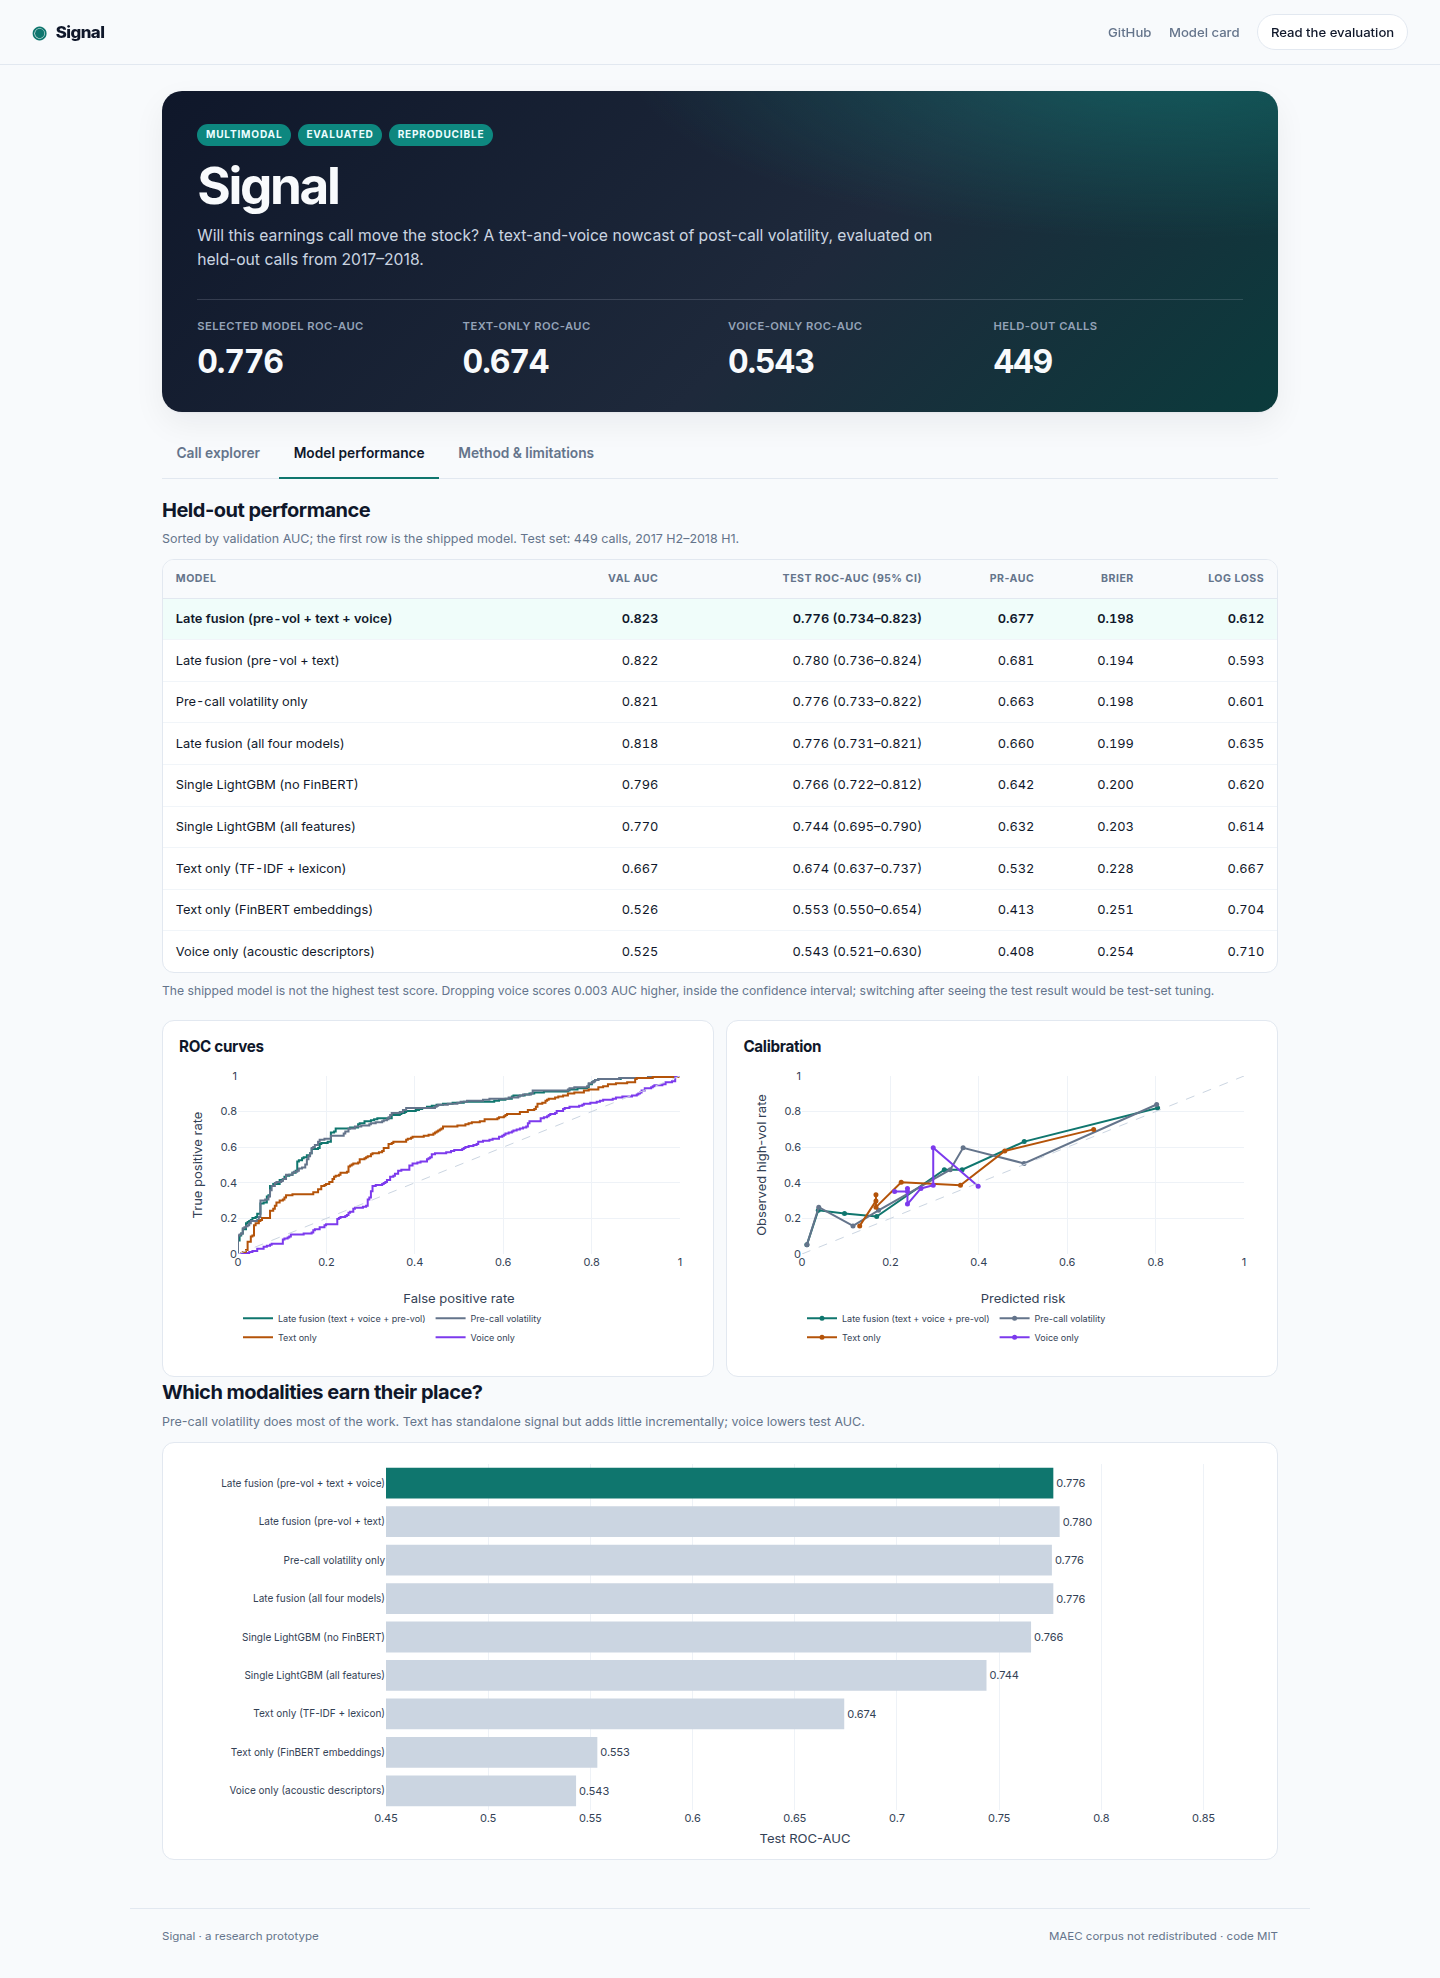
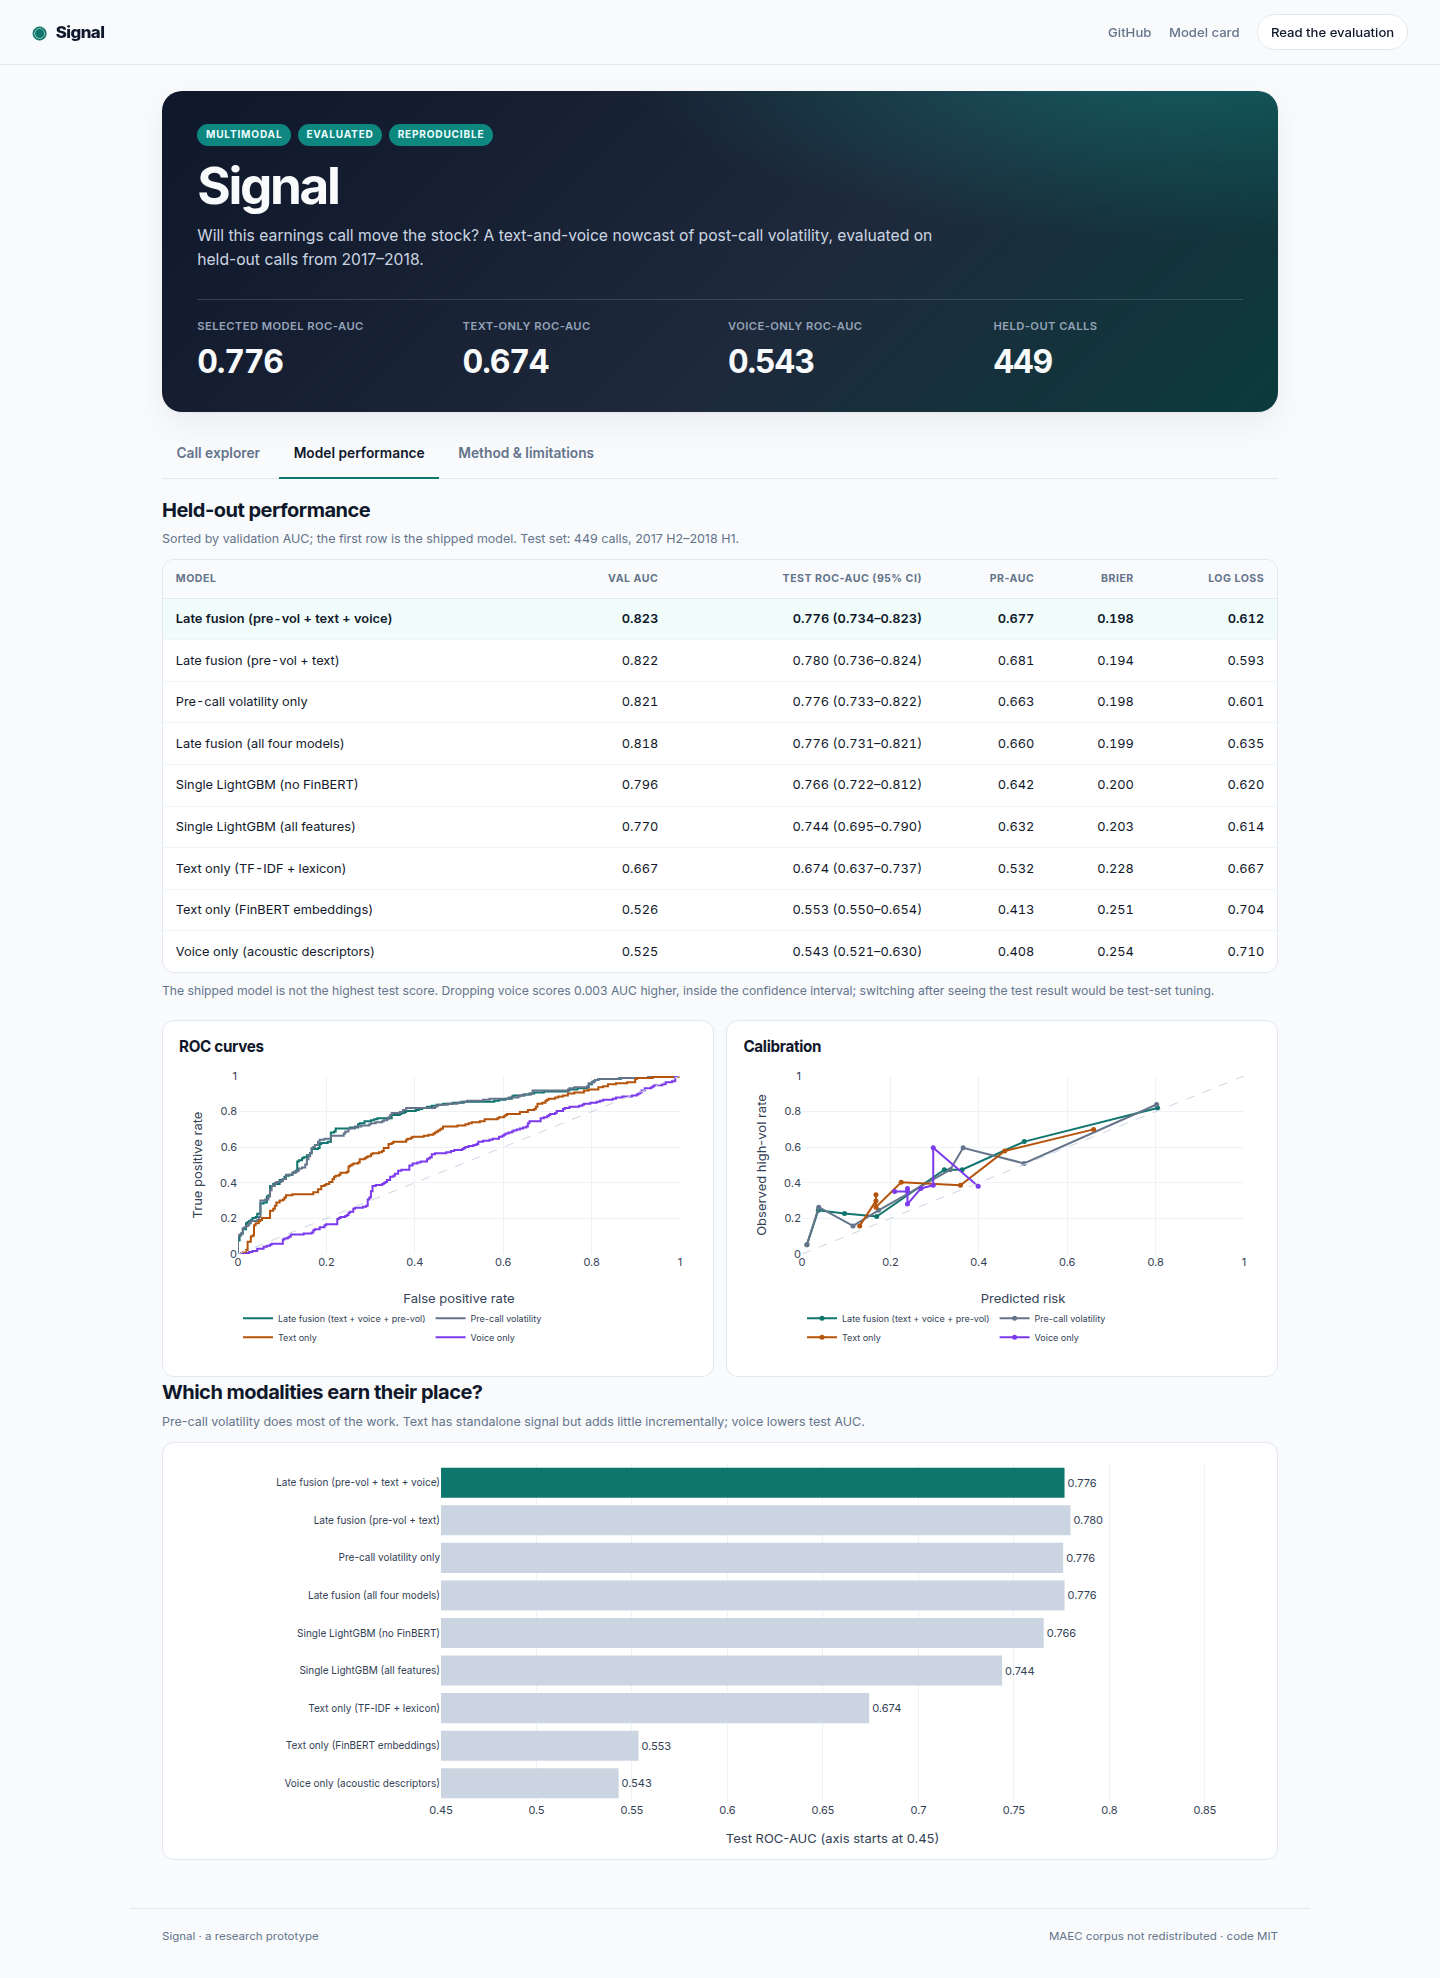
Fix CI import path and polish dashboard copy
- add repo root to pytest pythonpath so app.api imports on Actions
- clarify model-baseline probabilities and SHAP diagnostic scope
- add favicon; refresh docs screenshots

Changed region(s): [[0.1562, 0.7401, 0.75, 0.9252], [0.5312, 0.9252, 0.5625, 0.956]]

diff --git a/site/index.html b/site/index.html
@@ -5,6 +5,7 @@
   <meta name="viewport" content="width=device-width, initial-scale=1">
   <title>Signal — earnings-call volatility nowcast</title>
   <meta name="description" content="A multimodal earnings-call volatility nowcast with honest text, voice and FinBERT ablations.">
+  <link rel="icon" href="favicon.svg" type="image/svg+xml">
   <link rel="preconnect" href="https://fonts.googleapis.com">
   <link rel="preconnect" href="https://fonts.gstatic.com" crossorigin>
   <link href="https://fonts.googleapis.com/css2?family=Inter:wght@400;500;600;700;800&family=JetBrains+Mono:wght@500&display=swap" rel="stylesheet">
@@ -74,7 +75,7 @@
           </div>
 
           <div class="card">
-            <span class="stat-label">Baselines</span>
+            <span class="stat-label">Model baselines</span>
             <p class="baseline" id="baselinePre">—</p>
             <p class="muted" id="baselineOther">—</p>
             <p class="muted">Predicted probability of a high-volatility call</p>
@@ -84,7 +85,7 @@
         <div class="explorer-main">
           <div class="section-head">
             <h2>What drives the score</h2>
-            <p class="muted">SHAP contributions from the fusion model. Positive pushes toward high volatility.</p>
+            <p class="muted">SHAP contributions from the single LightGBM model (diagnostic). The risk score is a calibrated late-fusion blend. Positive values push toward high volatility.</p>
           </div>
           <div class="drivers" id="drivers"></div>
 

diff --git a/site/app.js b/site/app.js
@@ -123,8 +123,8 @@ function renderCall(callId) {
 
   $("outcome").textContent = call.outcome;
   $("vols").textContent = `Post-call vol ${pct(call.post_vol)} · pre-call ${pct(call.pre_vol)}`;
-  $("baselinePre").innerHTML = `Pre-call volatility: <strong>${pct(call.pred_pre_vol)}</strong>`;
-  $("baselineOther").textContent = `Text only ${pct(call.pred_text)} · Voice only ${pct(call.pred_voice)}`;
+  $("baselinePre").innerHTML = `Pre-call baseline: <strong>${pct(call.pred_pre_vol)}</strong>`;
+  $("baselineOther").textContent = `Text-only baseline ${pct(call.pred_text)} · Voice-only baseline ${pct(call.pred_voice)}`;
   $("transcript").textContent = call.snippet;
 
   const drivers = call.drivers || [];

diff --git a/README.md b/README.md
@@ -115,7 +115,7 @@ python build_site.py          # site/data.json for the static dashboard
 streamlit run app/dashboard.py
 ```
 
-The dashboard runs at `http://localhost:8501`. The API runs with `uvicorn app.api:app --reload`; its interactive docs are at `http://localhost:8000/docs`.
+The Streamlit dashboard runs at `http://localhost:8501`; preview the static build with `python -m http.server 8080 --directory site`. The API runs with `uvicorn app.api:app --reload`; its interactive docs are at `http://localhost:8000/docs`.
 
 Run the checks with `pytest -q` and `ruff check src tests app`.
 
@@ -157,8 +157,8 @@ signal/
 
 The API is read-only and serves the evaluated test set: `/health`, `/calls`, `/calls/{call_id}` and `/metrics`. It does not pretend to score an arbitrary transcript, because a real call needs acoustic features and a price history that a text string cannot supply.
 
-- **Live dashboard:** [imsheheryar.github.io/signal](https://imsheheryar.github.io/signal/) is a static mirror of the Streamlit explorer, deployed by `.github/workflows/pages.yml`. It embeds the same 449 calls, SHAP drivers, prosody traces and metrics, so no server is required.
-- **Full Streamlit app:** run `streamlit run app/dashboard.py` locally. The committed demo artifacts mean no pipeline run is required.
+- **Live dashboard:** [imsheheryar.github.io/signal](https://imsheheryar.github.io/signal/) is a static site built from the same held-out artifacts and deployed by `.github/workflows/pages.yml`. It embeds the 449 calls, SHAP drivers, prosody traces and metrics, so no server is required.
+- **Streamlit app (local):** run `streamlit run app/dashboard.py` for the full interactive version. The committed demo artifacts mean no pipeline run is required.
 - **API:** `render.yaml` describes a free Render web service built from `Dockerfile.api`; the free tier sleeps after inactivity.
 - **Local containers:** `docker build -t signal .` for the dashboard and `docker build -f Dockerfile.api -t signal-api .` for the API.
 
